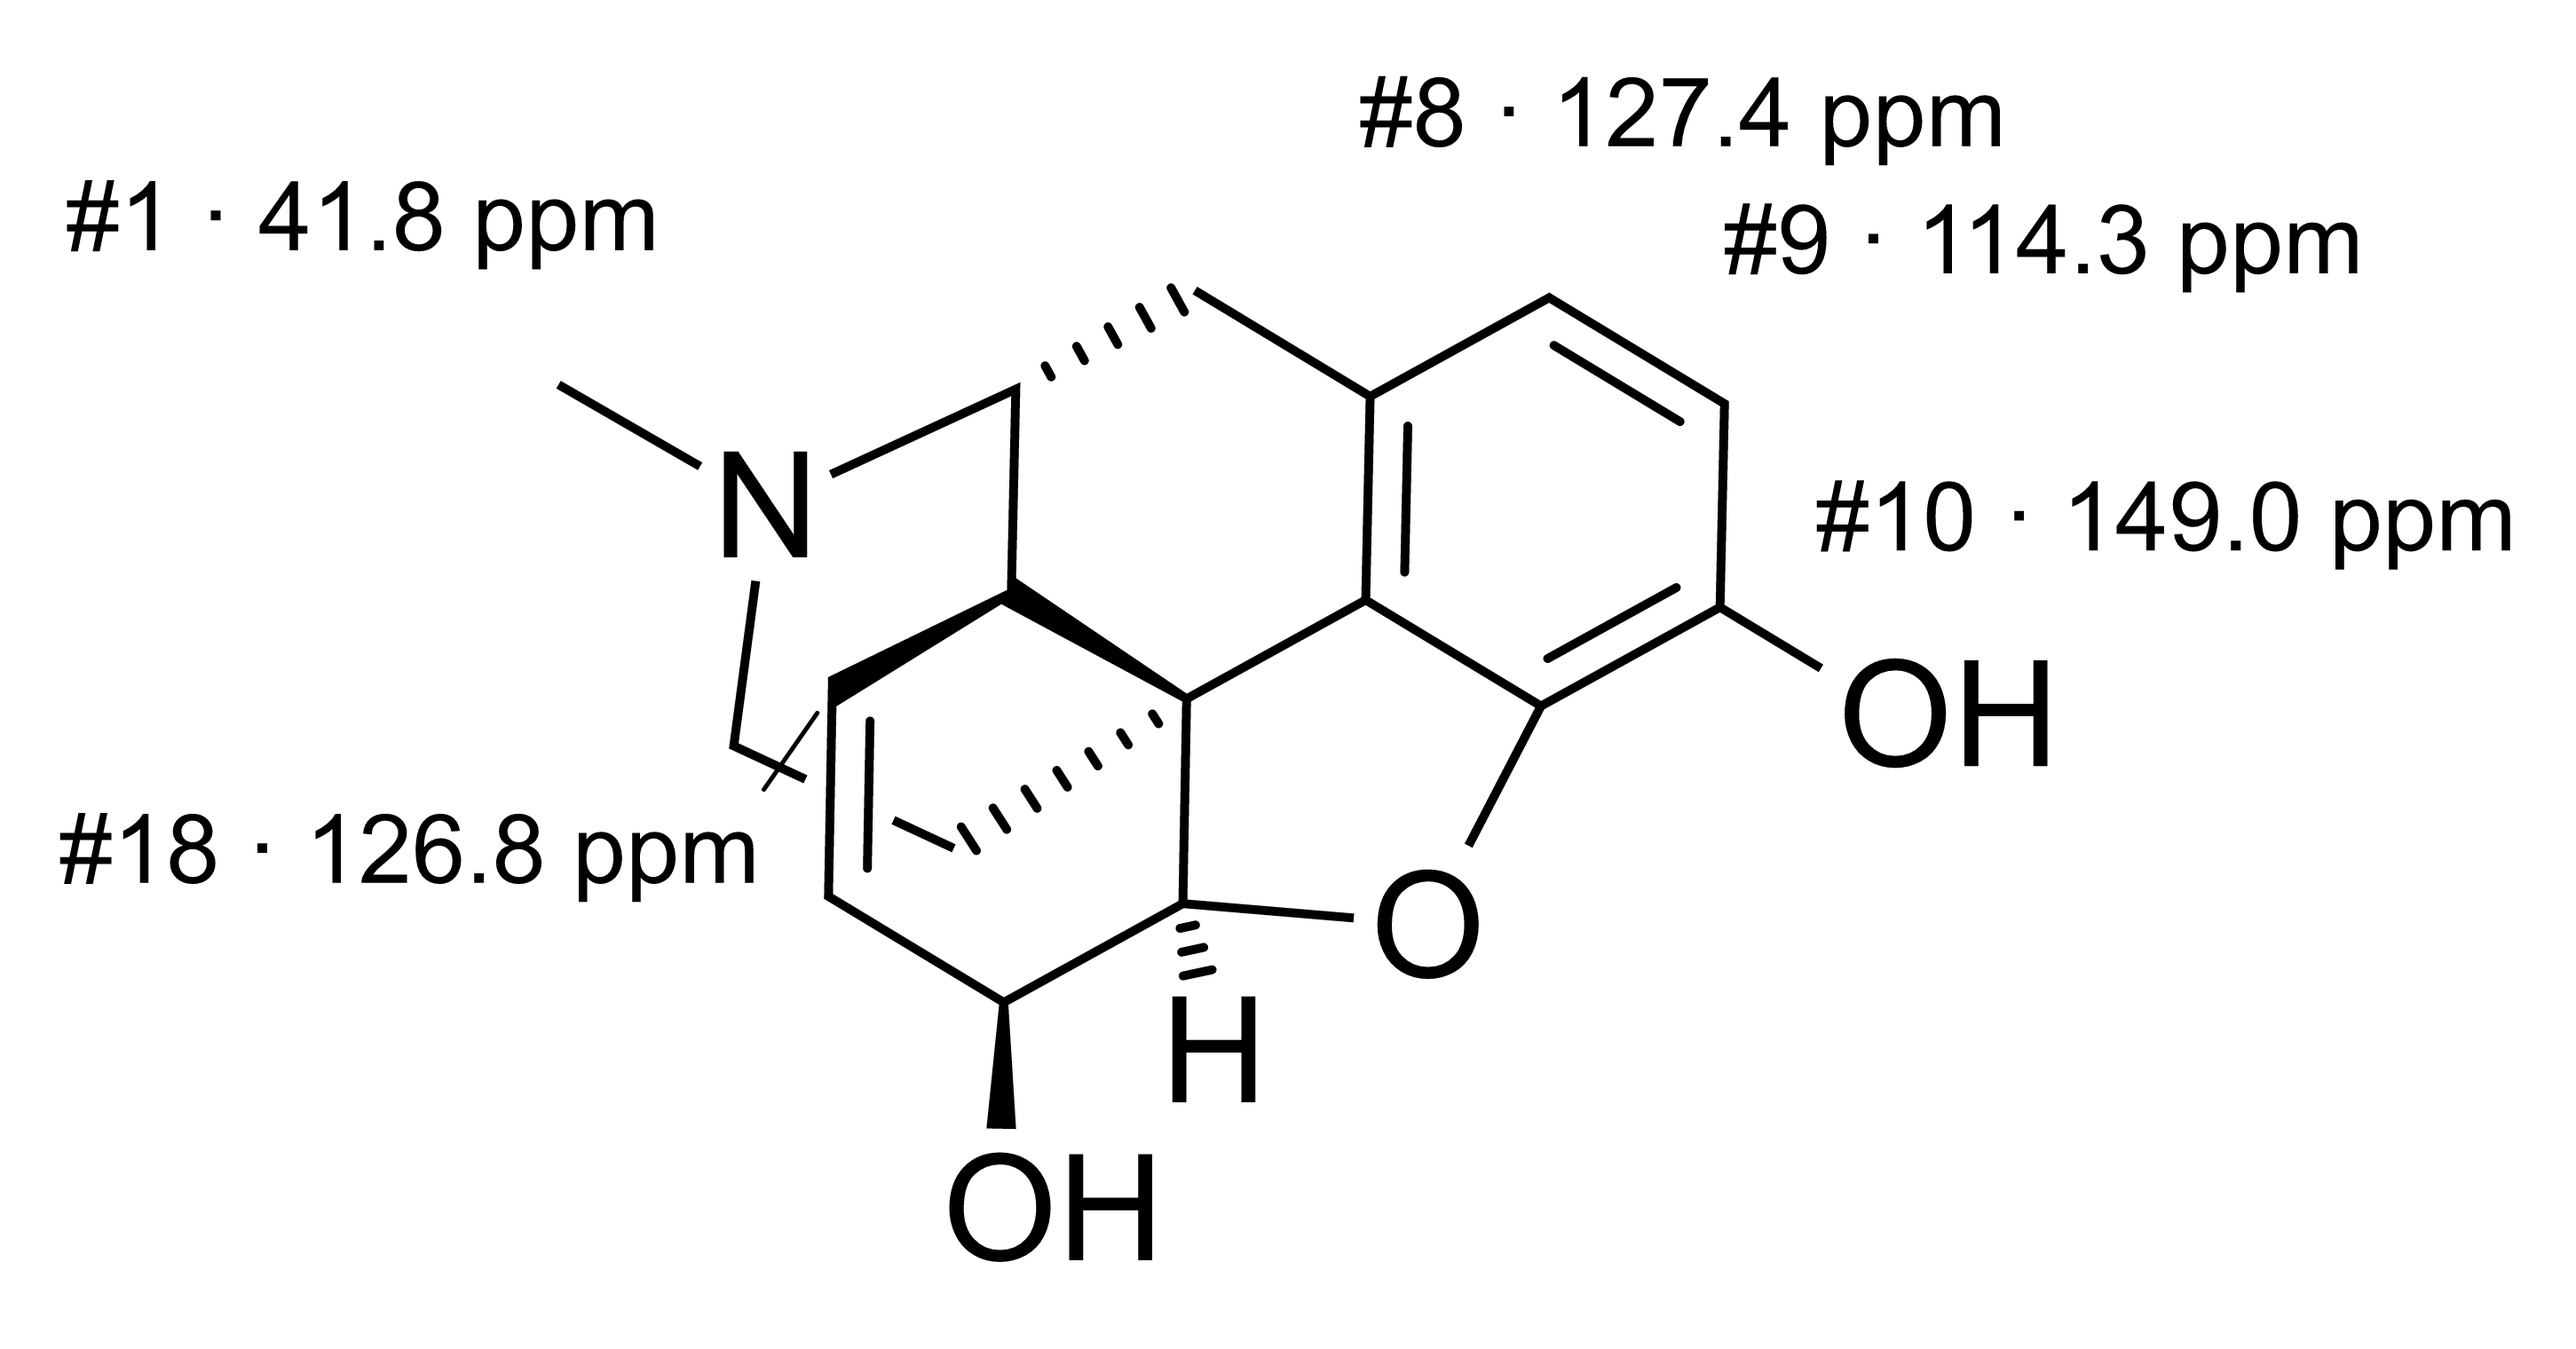
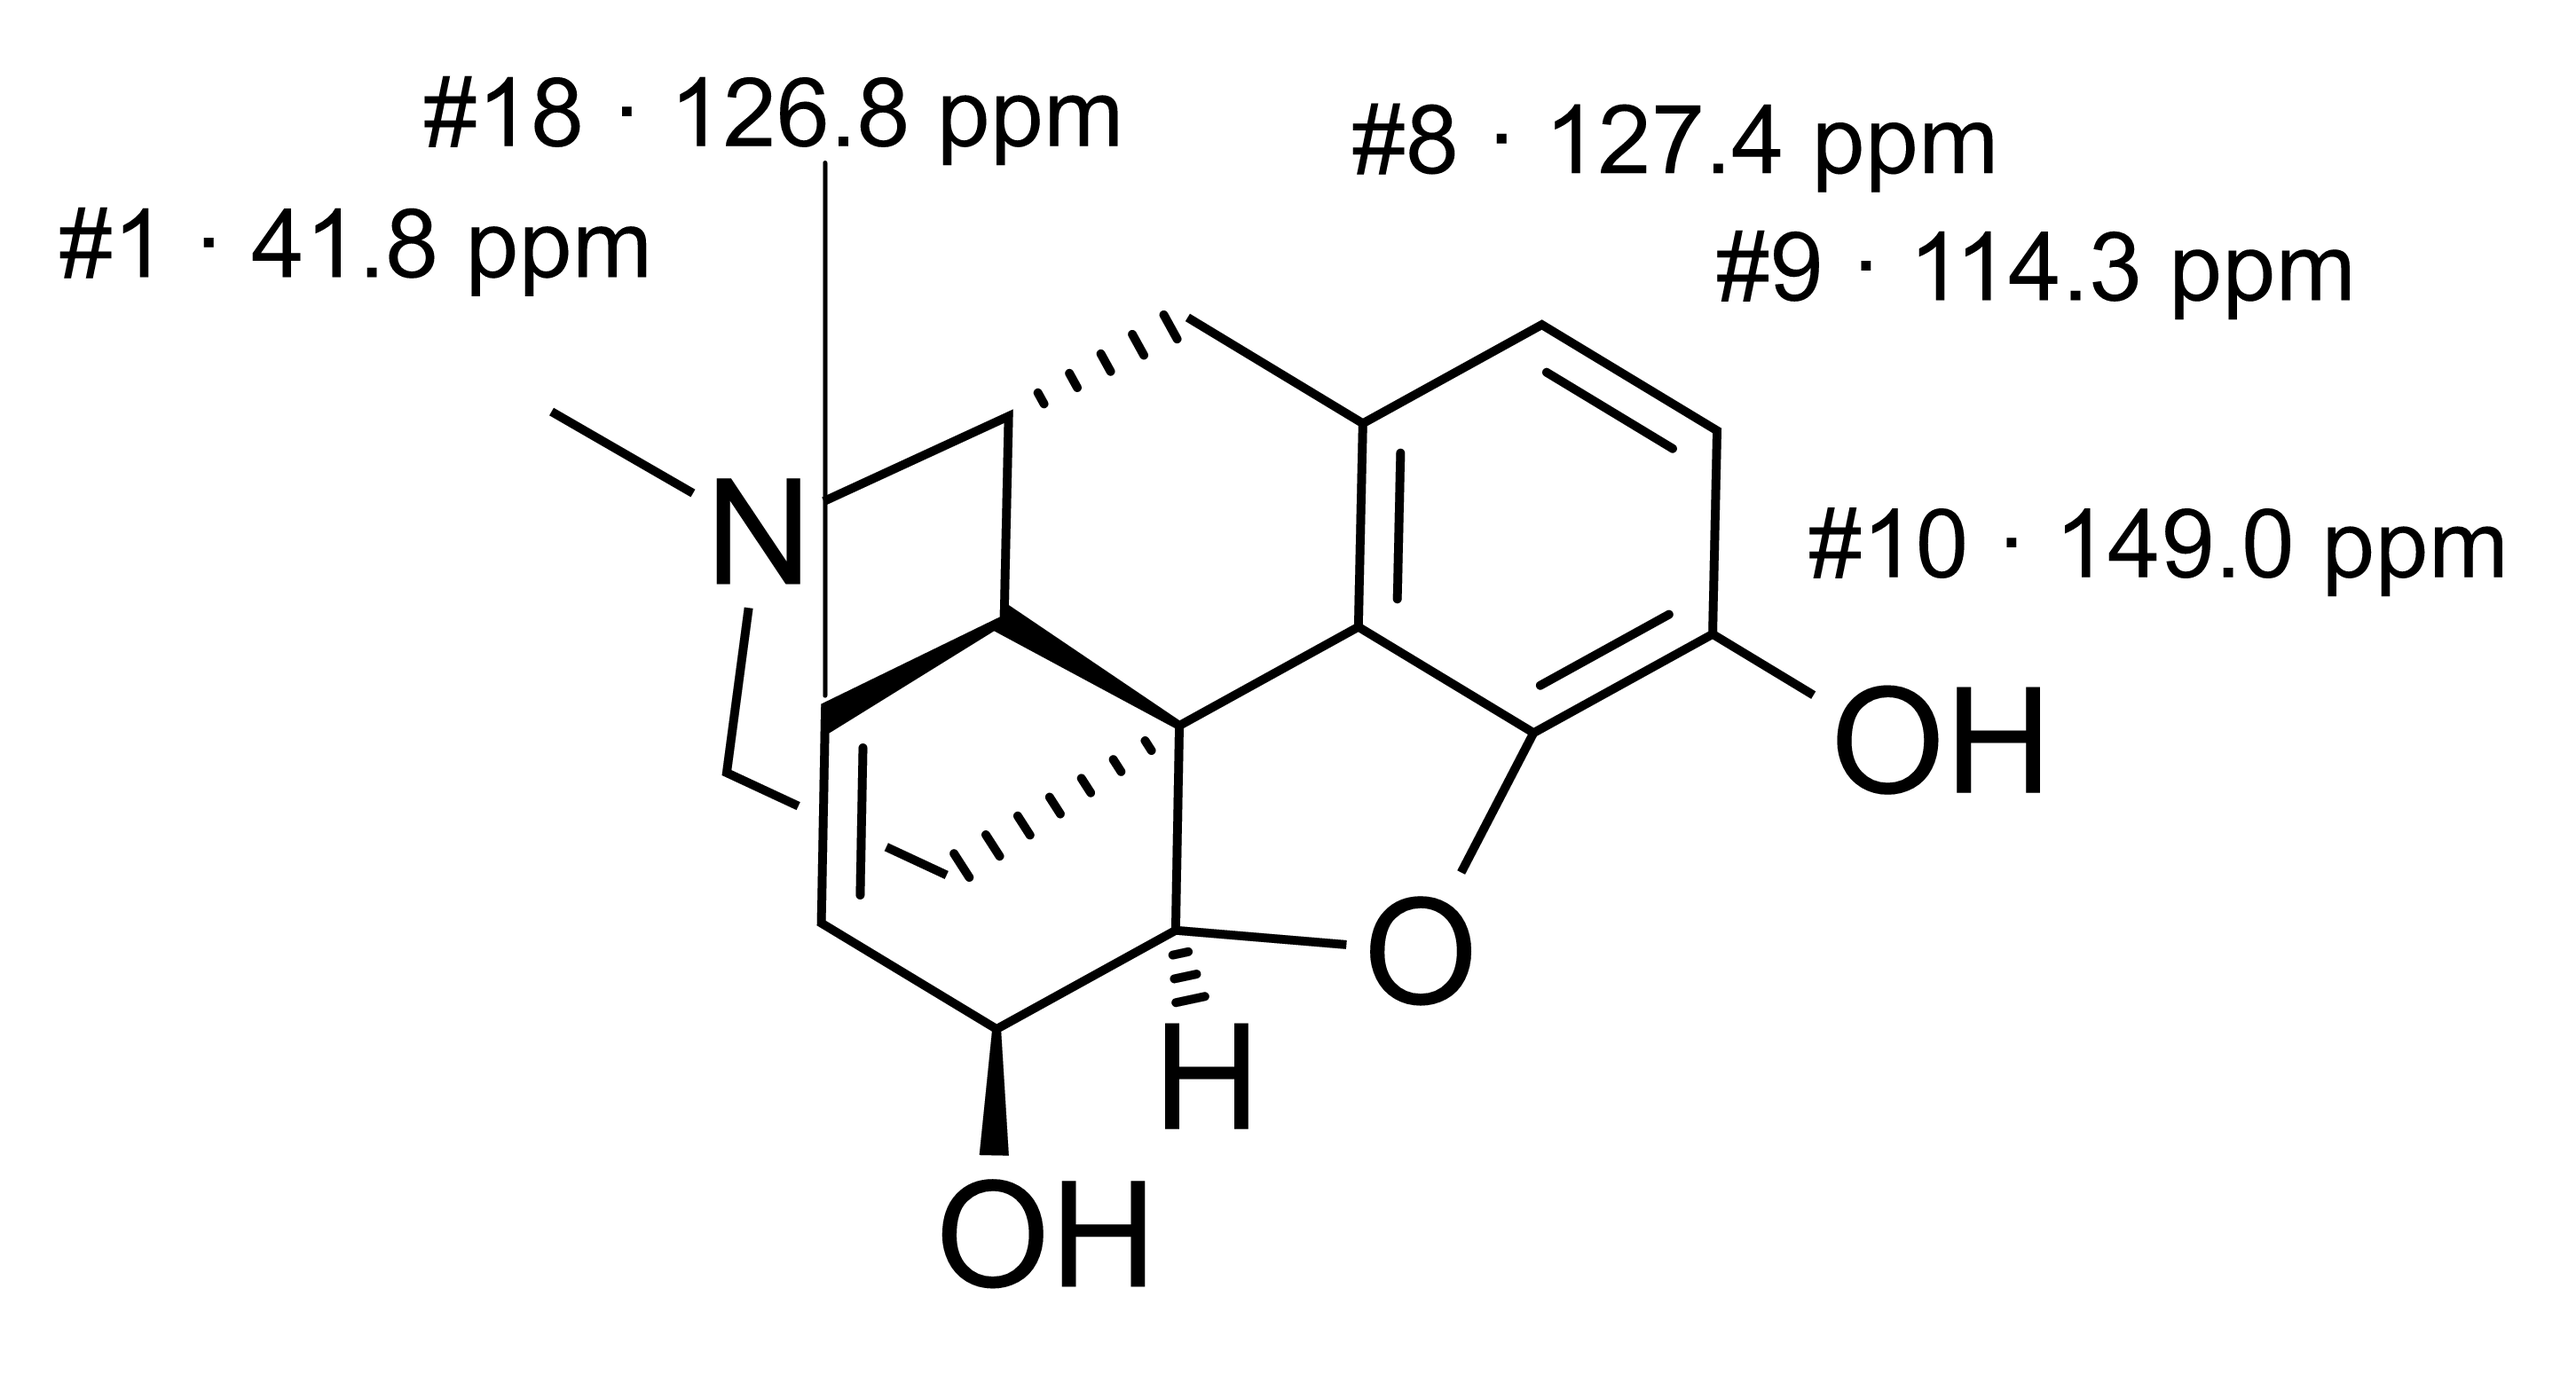
feat-nmr-labels-scripting: evidence for the leader and rebase round

diff --git a/pr-reviews/feat-nmr-labels-scripting/PR_BODY.md b/pr-reviews/feat-nmr-labels-scripting/PR_BODY.md
@@ -16,7 +16,7 @@ One core function, three thin surfaces, a shared layout, and the canvas sharing 
   - **Switch:** atom numbers ending in ` ppm`, which every `ppm` and `both` label does. Every other number (`3`, `12a`, `#3`, free text) keeps today's layout; no golden changed.
   - Candidates around the atom, outward first (away from the drawing around it) and nearest first, in 7.5° steps and half-text-height distance steps. The first box that touches no bond (with room for double and triple bond rails), atom label, other label or leader, and stays outside its molecule's convex hull, wins. Text uses its real advance width and height.
   - Labels that fit beside their atom go first, those with the least room first; the rest are placed after them.
-  - A **leader** (a thin line, half the bond width) joins a label to its atom when the label sits more than 1.5 bond lengths away or another atom is as near to it. A spot whose leader would cross text or another leader is not used; a leader may cross a bond when there is no other way.
+  - A **leader** (a thin line, half the bond width) joins a label to its atom when the label sits more than 1.5 bond lengths away or another atom is as near to it. A spot whose leader would cross text or another leader is not used; a leader may cross a bond when there is no other way, and then only at least 0.3 bond lengths from either end of the leader, so the crossing never reads as a mark on the bond.
   - Deterministic: the order and candidates depend only on the drawing.
   - **Size:** labels written without a style are 65% of the drawing's atom-label size (6.5 pt with 10 pt atom labels), and never below 4 pt. At the previous 7.5 pt (75%) a row of shift labels read as full-size text next to the atoms.
 - **Canvas** (`src/canvas/nmr.rs`): the **Show labels** overlay builds its text with `label_text` (3 decimals, as before). A test checks the overlay text equals the atom numbers scripts write. The overlay stays on screen only.
@@ -50,26 +50,118 @@ Labels are stored as atom numbers (static text), as the owner decided:
 
 ## Evidence
 
-EVIDENCE_PLACEHOLDER
+All images were made on macOS arm64 (Apple M4) from this branch with the default decimals (2 for ¹H, 1 for ¹³C); one shows `decimals=3`. Shifts are predicted from the bundled nmrshiftdb2-derived index; contains information from nmrshiftdb2.
+
+### The issue's example, end to end (Python)
+
+`m = reshiki.Molecule.from_smiles(MORPHINE).clean()`, `m.predict_nmr(nucleus)`, then `m.with_labels(shifts, format="both").save(..., style="JACS / ACS")`. [python-session.txt](python-session.txt) has the full session: every label, the decimals, the row types, the `.rsk` round trip, RDKit `atomNote`, CDXML and the errors. Rows without reference data are skipped: morphine ¹³C has data for 5 of 17 carbons, ¹H for 12 of 14 sites.
+
+<img src="morphine-1H.png" width="760">
+
+Morphine ¹H: twelve labels around a compact polycycle. Each is beside its atom or joined to it by a leader; none touches a bond, an atom label or another label, and no leader crosses text. Where an atom has no clear path out (#18, #4, #19, #20), the leader crosses a bond, always at least half a bond length from both of its ends, so the crossing never looks like a mark on the bond. Each leader ends at a different atom.
+
+<img src="morphine-13C.png" width="620">
+
+Morphine ¹³C: #18 is inside the ring through N, so its leader runs up past the N and crosses one bond halfway along.
+
+### 4-Anisaldehyde, every site predicted
+
+| ¹³C | ¹H |
+| --- | --- |
+| <img src="anisaldehyde-13C.png" width="420"> | <img src="anisaldehyde-1H.png" width="420"> |
+
+`decimals=3` instead of the ¹³C default of 1:
+
+<img src="anisaldehyde-13C-decimals3.png" width="420">
+
+SVGs and `.rsk` files: [morphine-1H.svg](morphine-1H.svg), [morphine-13C.svg](morphine-13C.svg), [anisaldehyde-13C.svg](anisaldehyde-13C.svg), [anisaldehyde-1H.svg](anisaldehyde-1H.svg), [anisaldehyde-13C-decimals3.svg](anisaldehyde-13C-decimals3.svg), [anisaldehyde-13C.rsk](anisaldehyde-13C.rsk).
+
+### Decimals, `.rsk` and RDKit
+
+```text
+# Decimals default per nucleus, or 0 to 4 on request (anisaldehyde atom 7, 13C):
+#   decimals=None: 190.8 ppm
+#   decimals=0: 191 ppm
+#   decimals=2: 190.85 ppm
+#   decimals=4: 190.8500 ppm
+#   decimals=5: ReShikiError[invalid_arguments]: decimals must be 0 to 4
+# .rsk round trip: the labels and the file version are kept
+#   version written: 30, unlabelled: 30
+#   labels equal after reopening: True
+# RDKit atomNote round trip:
+#   to_rdkit notes: [(0, '#1 · 3.79 ppm'), (3, '#4 · 6.79 ppm'), ...]
+#   from_rdkit numbers: {1: '#1 · 3.79 ppm', 4: '#4 · 6.79 ppm', ...}
+```
+
+The pytest suite also covers the `[H]CO` case with the explicit H kept in RDKit (notes land on C as atom 2 and O as atom 3; a note on the H is skipped with a warning) and invalid notes.
+
+### CDXML atom numbers (ChemDraw)
+
+```text
+<n id="3" ... AtomNumber="#1 · 55.3 ppm" ShowAtomNumber="yes">
+<n id="9" ... AtomNumber="#7 · 190.8 ppm" ShowAtomNumber="yes">
+```
+
+Plain atom numbers, no leaders: [anisaldehyde-13C.cdxml](anisaldehyde-13C.cdxml).
+
+### Command line
+
+```text
+$ reshiki --cli convert --smiles 'CN1CC[C@]23c4c5ccc(O)c4O[C@H]2[C@@H](O)C=C[C@H]3[C@H]1C5' --nucleus 13C --labels both -o cli-morphine-13C.png --force
+reshiki: warning: PNG: … at 1200 dpi
+[exit 0]
+```
+
+<img src="cli-morphine-13C.png" width="620">
+
+[cli.txt](cli.txt) also has ¹H `both` to PNG ([cli-morphine-1H.png](cli-morphine-1H.png)), `--decimals 3` to SVG ([cli-anisaldehyde-13C-decimals3.svg](cli-anisaldehyde-13C-decimals3.svg)), `numbers` to PDF, CDXML with `--receipt`, and the usage errors:
+
+```text
+$ reshiki --cli convert --smiles ... --to svg --decimals 2
+reshiki: --decimals needs --labels numbers, ppm or both                           [exit 2]
+$ reshiki --cli convert --smiles ... --to svg --nucleus 13C --labels ppm --decimals 5
+reshiki: --decimals must be a whole number from 0 to 4                            [exit 2]
+$ reshiki --cli convert --smiles ... --to svg --labels both
+reshiki: --labels needs --nucleus 1H or 13C                                       [exit 2]
+$ reshiki --cli convert --smiles ... --to mol --nucleus 13C --labels both
+reshiki: --labels needs an output that keeps atom numbers: svg, png, pdf, cdxml, cdx   [exit 2]
+```
+
+### MCP: `label_atoms` and undo
+
+[mcp.txt](mcp.txt): the `tools/list` entry (with `decimals`), then on ibuprofen `predict_nmr` (revision 0, 13 rows, 5 without data) → `label_atoms` with `decimals: 1` and `base_revision: "0"` → `{effect: "applied", revision: "1", recorded: true, labeled: [...8 atoms]}`; the same key replays that receipt; the same rows without the key are `stale`; one `apply` undo removes every label; an unknown atom is `unknown_object`; a label over 32 characters, `format: "Both"` and `decimals: 5` are `invalid_arguments`. The exported SVG: [mcp-ibuprofen-13C.svg](mcp-ibuprofen-13C.svg).
 
 ## Verification
 
 VERIFICATION_TABLE
 
-VERIFICATION_DETAILS
+On macOS arm64 (Apple M4), on this branch rebased onto `main` at 1178767 (after #1230, #1236, #1237, #1238):
+
+- `cargo fmt --all --check`, `cargo clippy --workspace --all-targets --all-features -D warnings`, and the wasm32 clippy for `reshiki-web`, `reshiki` and `reshiki-web-worker`.
+- `reshiki-model` 1,581 passed (the long-label tests: morphine ¹H and ¹³C, 4-anisaldehyde ¹³C, determinism and the switch, size, the dragged label, the 4 pt floor), `reshiki-io` 772, `reshiki-agent` 367 (contract 36), `reshiki` lib and bins 2,353, CLI 97, the `it` CLI and MCP suites 51, renderer and canvas 499. 0 failed.
+- Python: the wheel built with maturin, pytest 174 passed (3 skipped) with RDKit, `ruff check`, `ruff format --check` and `ty check`; the repository's Python tests 288 OK.
+- Module index, copy lint, changelog, docs tree, `bun run docs:check`, `bun run docs:build` (`agent-api.txt` 218,172 bytes, 18 tools), runtime dependency check of the built binary.
+- Failing first: the morphine ¹³C test failed before the near-end rule (`#18 · 126.8 ppm's leader crosses bond 3-4 near its end`), and the morphine ¹H test failed on the leader through `OH` (`#18 · 6.26 ppm's leader crosses atom 16's label`) before the retry.
+
+Linux (x64, arm64) and Windows x64 are covered by PR CI.
 
 ## Risk
 
 - Overwrites the numbers of the listed atoms, including numbers a user typed. Only listed atoms change, and it is one undo step in MCP.
 - Labels go stale after a chemistry edit (documented).
-- Crowded molecules: a label that cannot sit beside its atom gets a leader, which may cross a bond when there is no clear path (morphine ¹H #18 below). Labels never overlap text, bonds or other labels in the two test molecules, and leaders never cross text; the search is capped at 8 bond lengths, after which the least-bad spot is used.
+- Crowded molecules: a label that cannot sit beside its atom gets a leader, which may cross bonds when there is no clear path (morphine ¹H #18, #19, #20, #4). In the test molecules (morphine ¹H and ¹³C, 4-anisaldehyde ¹³C) labels never overlap text, bonds or other labels, leaders never cross text, atom labels or other leaders, and a leader crosses a bond only at least half a bond length from both of its ends. The search is capped at 8 bond lengths and at most eight retries of the leader pass, after which the least-bad spot is used. Busy drawings like morphine ¹H stay legible but have several long leaders.
 - Hit testing, Print Selection and molecules shown only in 3D use the same placement as before for picking; a long label's leader is drawn but not itself pickable, and a 3D-only neighbour can shift where a picking pass expects a label. Both are edge cases of the existing indicator code.
 - Numbers inside a collapsed abbreviation make CDXML/CDX export ask for the abbreviation to be expanded, as for any atom number there (documented).
-- MCP catalog: CATALOG_SIZE characters, under the 21,500 cap that #1231 set; not raised. `agent-api.txt`: LLMS_SIZE bytes, under the 220 KiB cap; not raised.
+- MCP catalog: 21,429 (was 20,250 before this PR) characters, under the 21,500 cap that #1231 set; not raised. `agent-api.txt`: 218,172 bytes, under the 220 KiB cap; not raised.
 
 ## Review
 
-REVIEW_SECTION
+- Codex (gpt-6.2-sol), adversarial, four passes on the first round (revision binding, atomicity, overwrite, surface consistency). Fixed: a no-op call recorded a revision and left its key unbound (now commits the snapshot unchanged, binding the key); `ppm` was optional in MCP rows; a figure round-trip test and a docs claim assumed embedded drawings; real writes reconcile again after a detour (separators and captions need it); the result contract's warnings; Windows UTF-8. Not changed: `budget` before `stale` under a concurrent edit (`apply`'s existing order); a negative atom in Python raises `OverflowError`, like other argument type errors.
+- Greptile (4/5): Python skipped reaction spacing; fixed with a failing-first test. Then 5/5.
+- Codex, adversarial, two passes on this round's layout, decimals and `atomNote`. Fixed: the switch was every number with a space, which moved free-text numbers (now only labels ending in ` ppm`; no other layout or golden changes); hulls were rebuilt per atom and placement order depended on far-away labels (now once per molecule, ordered around each molecule's own centre); beside-only searches ran to 8 bond lengths (now 1.5); rail clearance did not cover wide bond spacings or triple bonds (now one bond spacing plus half the bold width); shift labels could fall below the 4 pt minimum on small styles; Python applied a nucleus default to mixed rows; dragged labels ran the room count. Not changed: a dragged label's leader is not collision-checked (the user placed it); hit testing does not pick the leader itself and builds against the full drawing, as indicators always have; Print Selection can drop a leader that existed only because an unselected atom was near; after the 8-bond-length cap the least-bad spot is used; `numbers` labels written by scripts also get the smaller shift-label size (they are new numbers, not existing ones).
+- Own check of the regenerated images: the ¹³C `#18` leader crossed a bond right next to the label, which read as a mark on the bond, and once a short-end rule was added a ¹H leader went through an `OH` label because earlier leaders had taken the clear paths. Fixed with failing-first tests (a morphine ¹³C case; the shared check now rejects leaders through atom labels and bond crossings near a leader end): such a crossing costs more than any ordinary one, and the leader pass is retried with each label left without a clear spot placed first.
+- Codex, adversarial, on that change. Fixed: a mark was also charged as an ordinary crossing; the retry stopped when the first stuck label was already first, and could repeat orders (now each stuck label is moved first at most once). Not changed: clearance is measured along the leader, not from the bond's end atoms, by design (a leader passing near an atom is already kept off its box).
+- Owner review of the first images: `#19` crossed ring bonds, `#18` sat on the N-methyl bond, long labels sat far from their atoms and the text was full size. All addressed above; see the images.
 
 ## Changelog
 
